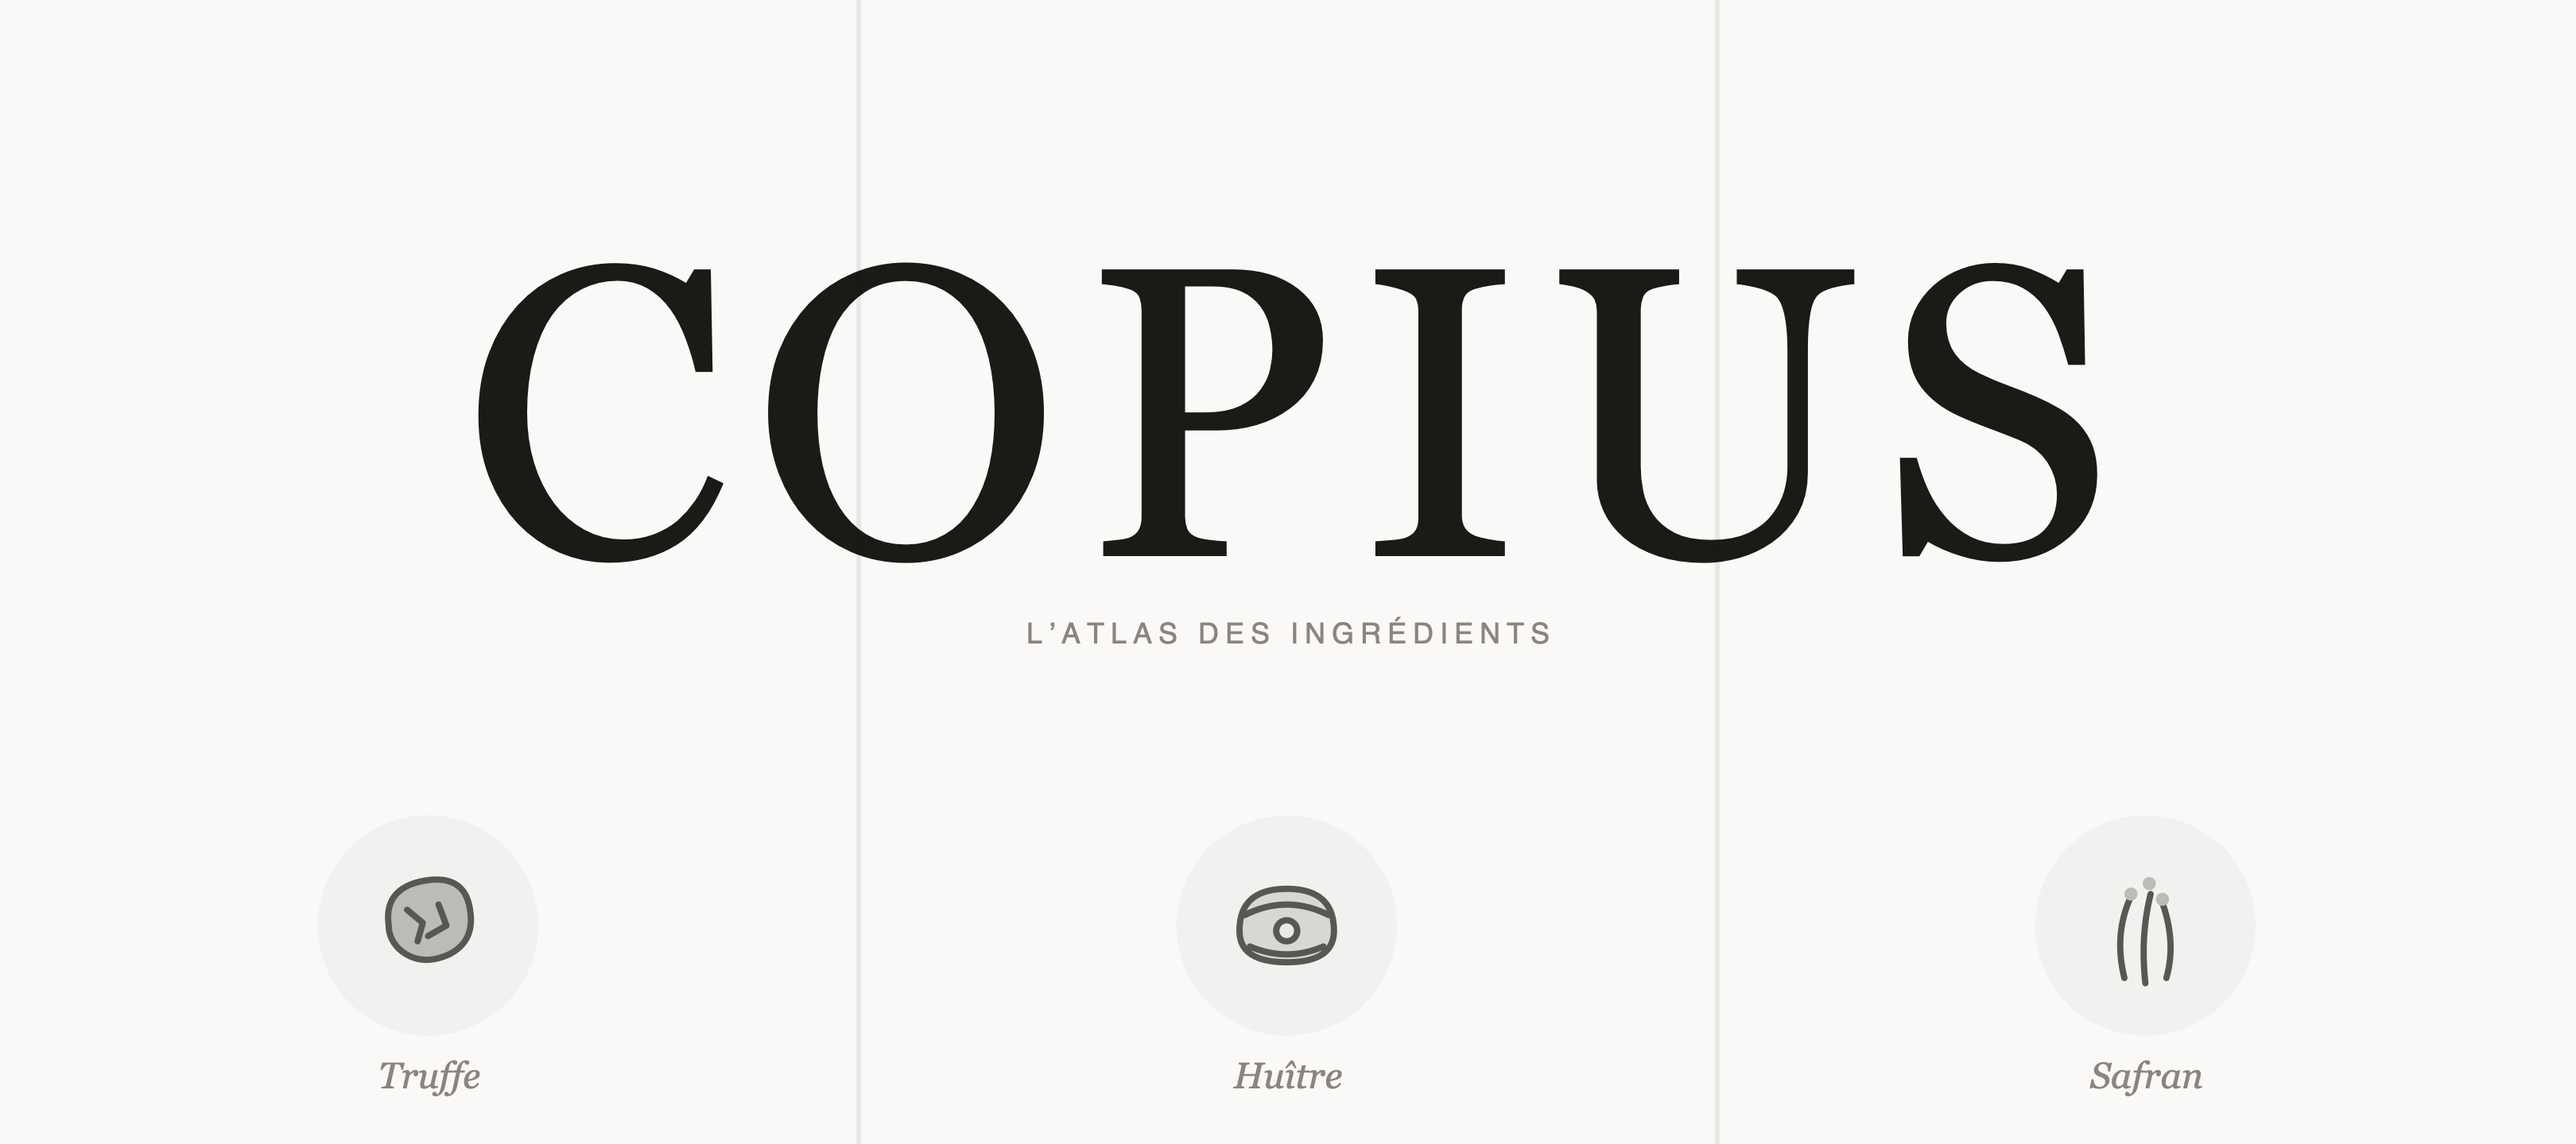
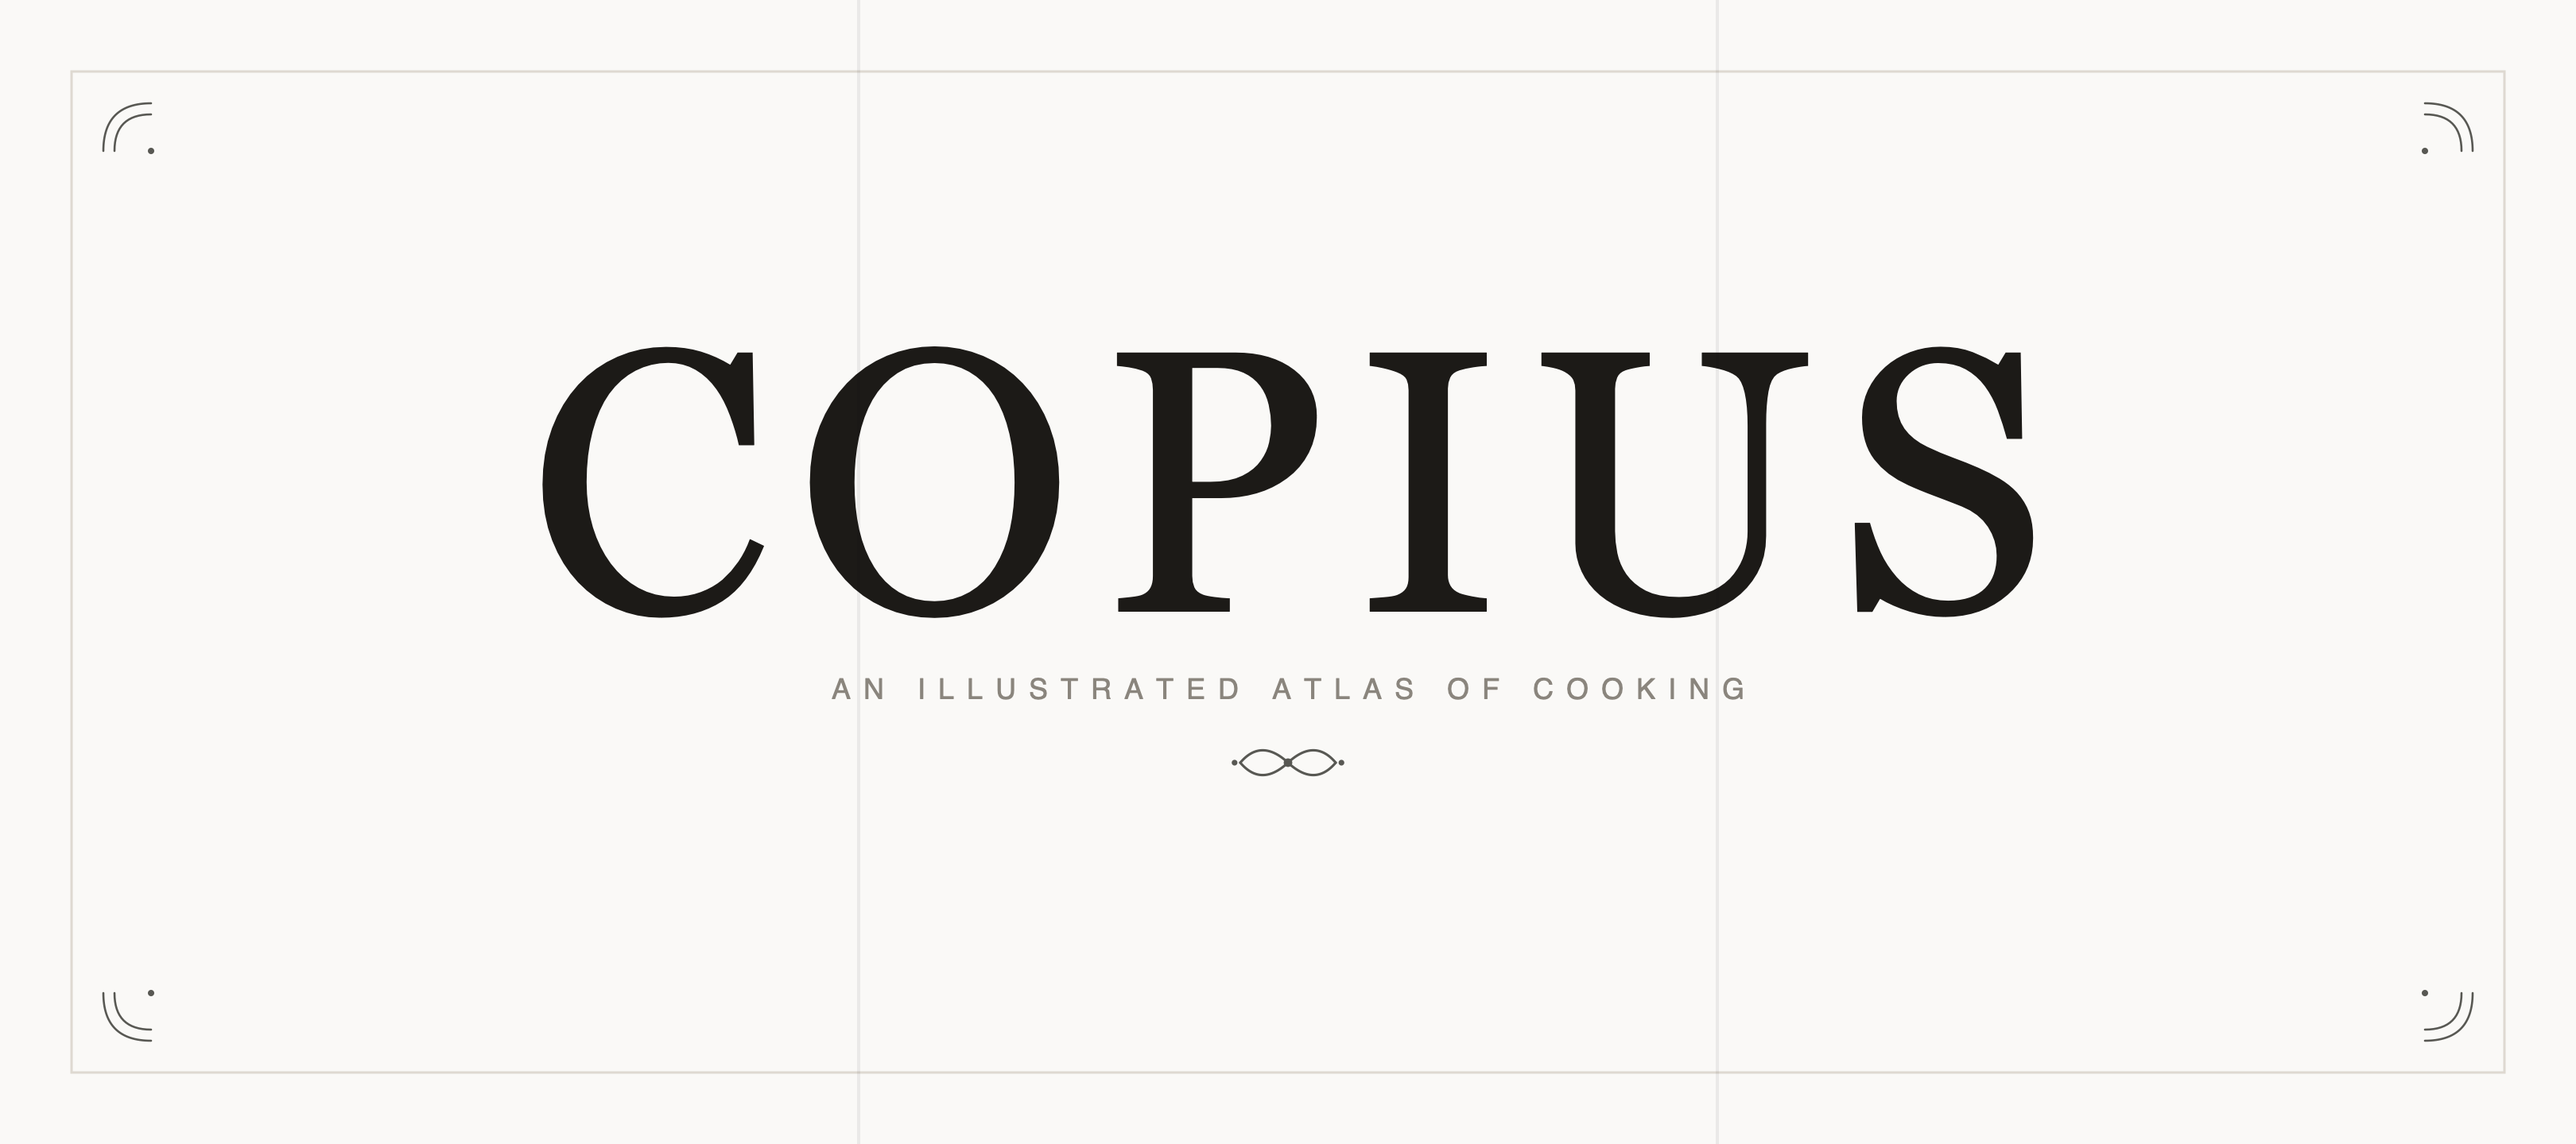
Pinned posts: the bordered plate, in English
Replaces the three named specimens with a decorated plate — border,
corner ornaments, wordmark, fleuron. No ingredients named, so it does not
date as the atlas grows, and each of the three tiles carries ornament
rather than one panel holding everything.

diff --git a/docs/INSTAGRAM-LAUNCH.md b/docs/INSTAGRAM-LAUNCH.md
@@ -35,19 +35,25 @@ the site rather than anything else.
 
 ## 3. The three pinned posts
 
-`brand/pinned/` holds them, already sliced to 1080×1440 — the size the profile
-grid crops to since January 2025, so they display uncropped.
+`brand/pinned/` holds them, sliced to 1080×1440 — the size the profile grid
+crops to since January 2025, so they display uncropped.
+
+A bordered plate: engraved corner ornaments, the wordmark, a fleuron. No
+ingredients, so it does not date as the atlas grows, and every tile carries
+something rather than one panel holding all the weight.
 
 **Post them in this order.** The grid fills newest-first, left to right, so the
 rightmost panel is published first:
 
-1. `1-right-safran.png`
-2. `2-middle-huitre.png`
-3. `3-left-truffe.png`
+1. `1-right.png`
+2. `2-middle.png`
+3. `3-left.png`
 
 Then pin all three. `assembled-preview.png` shows what they form together.
 
 Get the order wrong and the wordmark reads backwards.
+
+Captions can be empty, or a single line — the images carry it.
 
 ## 4. Automated daily posting
 
